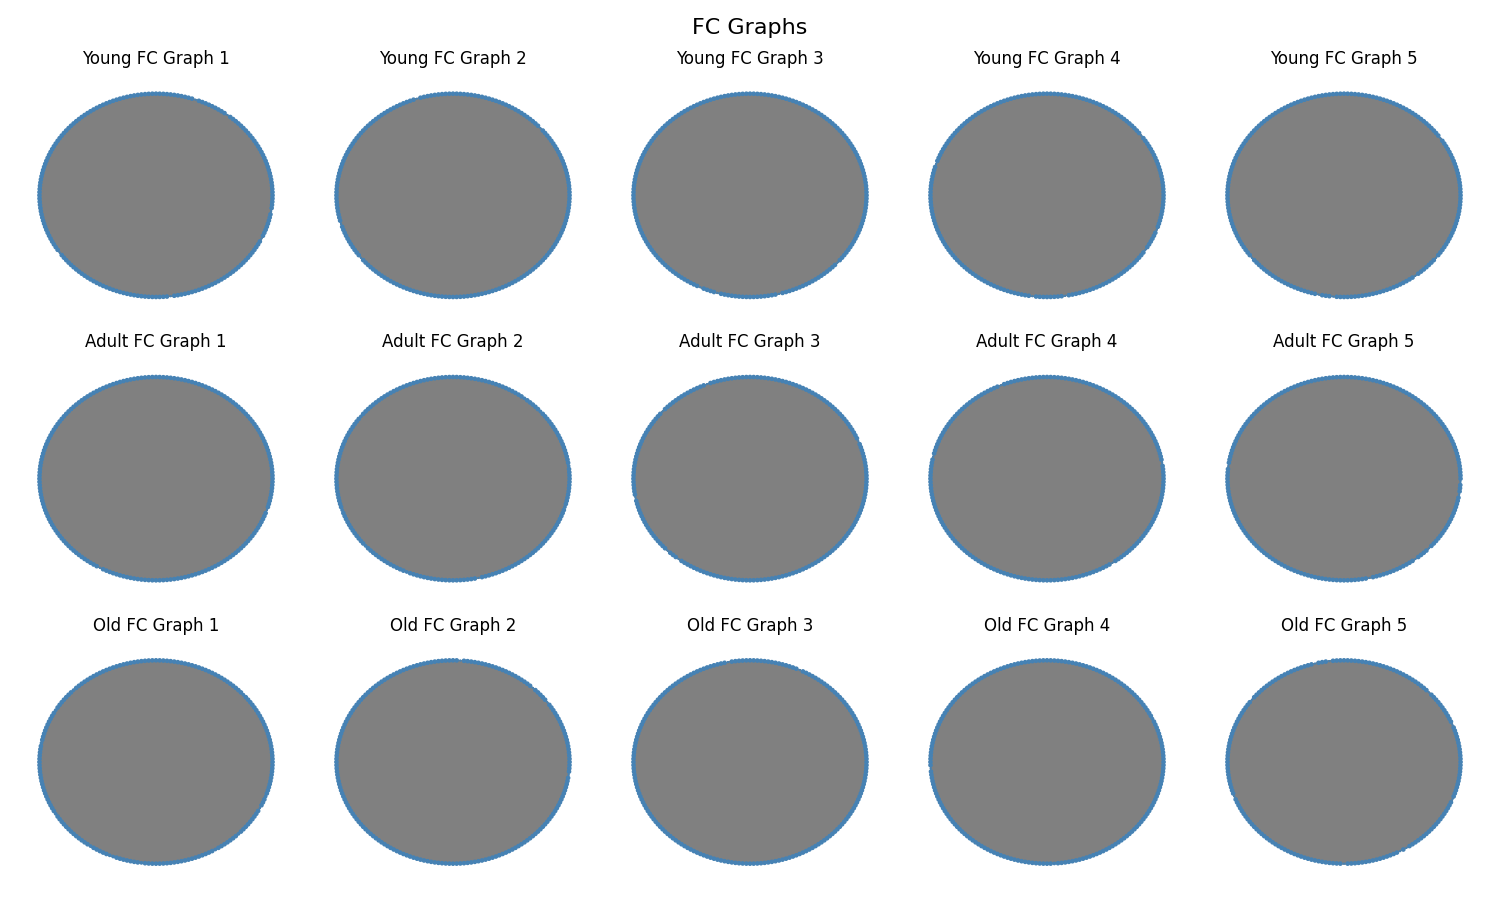
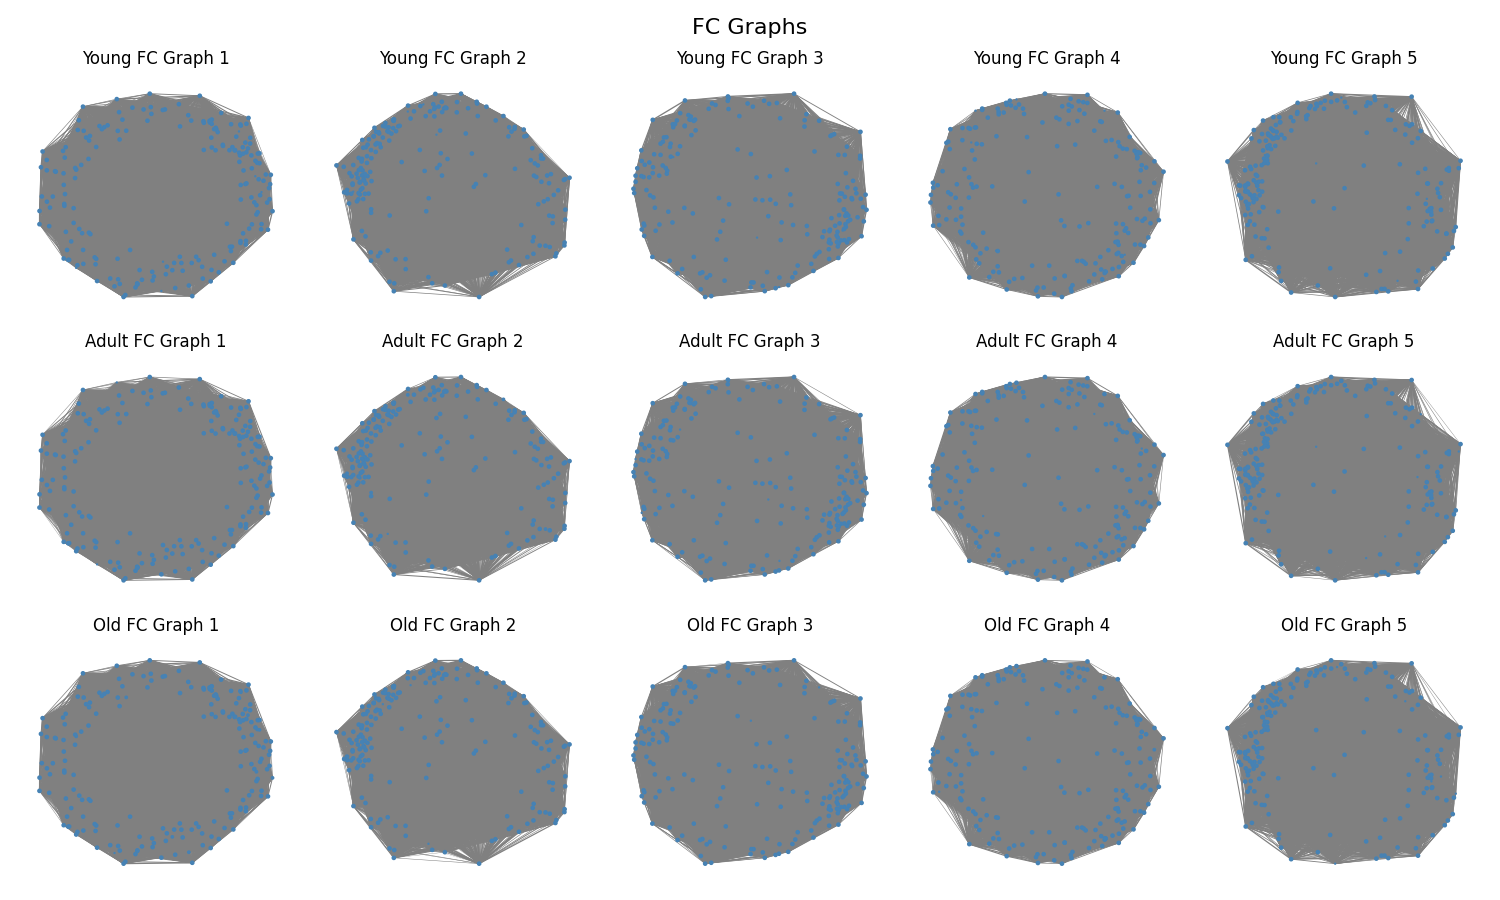
graph plot with fixed node positions
Former-commit-id: ac113189fe56dbc6cbd8a9e16e2a5218fe9518f5

diff --git a/Codice.py b/Codice.py
@@ -125,12 +125,13 @@ def plot_and_save_heatmap(young_matrix, adult_matrix, old_matrix, title_prefix, 
     plt.close(fig)
 
 
+"""
 # Visualize the original SC matrices as a heatmap
 plot_and_save_heatmap(sc_young_matrix, sc_adult_matrix, sc_old_matrix, 'SC', 'SC_matrices_heatmap.png')
 
 # Visualize the original FC matrices as a heatmap
 plot_and_save_heatmap(fc_young_matrix, fc_adult_matrix, fc_old_matrix, 'FC', 'FC_matrices_heatmap.png')
-
+"""
 
 
 # Plot the histogram 
@@ -185,13 +186,13 @@ def plot_and_save_histogram(young_matrix, adult_matrix, old_matrix, title_prefix
     
     plt.close(fig)
 
-
+"""
 # Plot the histogram of the original FC matrix values
 plot_and_save_histogram(fc_young_matrix, fc_adult_matrix, fc_old_matrix, 'FC', 'FC_matrices_histogram.png')
 
 # Plot the histogram of the original SC matrix values
 plot_and_save_histogram(sc_young_matrix, sc_adult_matrix, sc_old_matrix, 'SC', 'SC_matrices_histogram.png')
-
+"""
 
     
  
@@ -316,7 +317,6 @@ def preprocess_fc_matrix(matrix, threshold=0.5, method='zscore'):
     return rescaled_matrix
 
 
-
 # Initialize empty arrays to store the preprocessed FC matrices
 fc_young_matrix_preprocessed = np.empty_like(fc_young_matrix)
 fc_adult_matrix_preprocessed = np.empty_like(fc_adult_matrix)
@@ -329,56 +329,6 @@ for i in range(fc_young_matrix.shape[2]):
     fc_adult_matrix_preprocessed[:, :, i] = preprocess_fc_matrix(fc_adult_matrix[:, :, i], threshold= 0.5, method='zscore')
     fc_old_matrix_preprocessed[:, :, i] = preprocess_fc_matrix(fc_old_matrix[:, :, i], threshold= 0.5, method='zscore')
 
-
-# Plot the histogram of the FC matrix values
-
-
-# Extract the upper triangular part of the original FC matrix, excluding the diagonal
-upper_tri_fc_matrix = np.triu(fc_young_matrix[:, :, 0],k=1)
-# Flatten the upper triangular part
-flattened_fc_matrix = upper_tri_fc_matrix.flatten()
-
-# Calculate the mean and standard deviation
-"""
-mean_fc = np.mean(flattened_fc_matrix)
-std_fc = np.std(flattened_fc_matrix)
-
-print(f"Mean of the original FC matrix values: {mean_fc}")
-print(f"Standard deviation of the original FC matrix values: {std_fc}")
-"""
-
-# Plot the histogram of the original FC matrix values
-
-
-"""
-plt.subplot(1, 2, 1)
-plt.hist(flattened_fc_matrix, bins=100, edgecolor='k')
-plt.title('Histogram of Original FC Matrix Values')
-plt.xlabel('Value')
-plt.ylabel('Frequency')
-
-# Extract the upper triangular part of the preprocessed FC matrix, excluding the diagonal
-upper_tri_fc_matrix_preprocessed = np.triu(fc_young_matrix_preprocessed[:, :, 0], k=1)
-# Flatten the upper triangular part
-flattened_fc_matrix_preprocessed = upper_tri_fc_matrix_preprocessed.flatten()
-
-# Calculate the mean and standard deviation
-mean_fc_preprocessed = np.mean(flattened_fc_matrix_preprocessed)
-std_fc_preprocessed = np.std(flattened_fc_matrix_preprocessed)
-
-print(f"Mean of the preprocessed FC matrix values: {mean_fc_preprocessed}")
-print(f"Standard deviation of the preprocessed FC matrix values: {std_fc_preprocessed}")
-
-# Plot the histogram of the preprocessed FC matrix values
-plt.subplot(1, 2, 2)
-plt.hist(flattened_fc_matrix_preprocessed, bins=100, edgecolor='k')
-plt.title('Histogram of Preprocessed FC Matrix Values')
-plt.xlabel('Value')
-plt.ylabel('Frequency')
-
-plt.tight_layout()
-plt.show()
-"""
 
 
 # Normalization of the SC matrices 
@@ -421,7 +371,7 @@ for i in range(sc_young_matrix.shape[2]):
     sc_old_matrix_preprocessed[:, :, i] = preprocess_sc_matrix(sc_old_matrix[:, :, i], method='zscore')
 
 
-
+"""
 # Visualize the preprocessed FC matrices as a heatmap
 plot_and_save_heatmap(fc_young_matrix_preprocessed, fc_adult_matrix_preprocessed, fc_old_matrix_preprocessed, 'FC', 'FC_matrices_heatmap_preprocessed.png')
 
@@ -434,7 +384,7 @@ plot_and_save_histogram(fc_young_matrix_preprocessed, fc_adult_matrix_preprocess
 
 # Plot the histogram of the preprocessed SC matrix values
 plot_and_save_histogram(sc_young_matrix_preprocessed, sc_adult_matrix_preprocessed, sc_old_matrix_preprocessed, 'SC', 'SC_matrices_histogram_preprocessed.png')
-
+"""
 
 
 # Convert matrices to graphs
@@ -493,7 +443,7 @@ def plot_graph_on_axis(graph, ax, title, pos = None):
     
     # Draw the graph
     if pos is None:
-        pos = nx.spring_layout(graph)
+        pos = nx.spring_layout(graph, seed=42)
     nx.draw(graph, pos, ax=ax, node_size=node_sizes, with_labels=False, node_color='steelblue', edge_color='gray', width=edge_weights)
 
     return pos
@@ -514,7 +464,11 @@ def plot_and_save_graph(young_graphs, adult_graphs, old_graphs, title_prefix, fi
     fig.suptitle(f'{title_prefix} Graphs', fontsize=16)
 
     for i in range(5):
-        pos = plot_graph_on_axis(young_graphs[i], axs[0, i], f"Young {title_prefix} Graph {i+1}", pos)
+        if positions:
+            pos = positions[i]
+            plot_graph_on_axis(young_graphs[i], axs[0, i], f"Young {title_prefix} Graph {i+1}", pos)
+        else:
+            pos = plot_graph_on_axis(young_graphs[i], axs[0, i], f"Young {title_prefix} Graph {i+1}")
         plot_graph_on_axis(adult_graphs[i], axs[1, i], f"Adult {title_prefix} Graph {i+1}", pos)
         plot_graph_on_axis(old_graphs[i], axs[2, i], f"Old {title_prefix} Graph {i+1}", pos)
 
@@ -526,19 +480,21 @@ def plot_and_save_graph(young_graphs, adult_graphs, old_graphs, title_prefix, fi
     
     plt.close(fig)
 
+    return positions
 
+"""
 # Visualize the original SC graphs
-plot_and_save_graph(sc_young_graph, sc_adult_graph, sc_old_graph, 'SC', 'SC_graphs.png')
+positions_sc = plot_and_save_graph(sc_young_graph, sc_adult_graph, sc_old_graph, 'SC', 'SC_graphs.png')
 
 # Visualize the preprocessed SC graphs
-plot_and_save_graph(sc_young_graph_preprocessed, sc_adult_graph_preprocessed, sc_old_graph_preprocessed, 'SC', 'SC_graphs_preprocessed.png')
+plot_and_save_graph(sc_young_graph_preprocessed, sc_adult_graph_preprocessed, sc_old_graph_preprocessed, 'SC', 'SC_graphs_preprocessed.png', positions_sc)
 
 # Visualize the original FC graphs
-plot_and_save_graph(fc_young_graph, fc_adult_graph, fc_old_graph, 'FC', 'FC_graphs.png')
+positions_fc = plot_and_save_graph(fc_young_graph, fc_adult_graph, fc_old_graph, 'FC', 'FC_graphs.png', positions_sc)
 
 # Visualize the preprocessed FC graphs
-plot_and_save_graph(fc_young_graph_preprocessed, fc_adult_graph_preprocessed, fc_old_graph_preprocessed, 'FC', 'FC_graphs_preprocessed.png')
-
+plot_and_save_graph(fc_young_graph_preprocessed, fc_adult_graph_preprocessed, fc_old_graph_preprocessed, 'FC', 'FC_graphs_preprocessed.png', positions_fc)
+"""
 
 
 
@@ -579,13 +535,22 @@ sc_old_graph_preprocessed_louvain = [louvain_preprocessing(graph) for graph in s
 
 # Visualize Louvain preprocessed graphs
 
+
+
+
+# TODO: apply plot_and_save_graph to the Louvain preprocessed graphs using node positions but removing the positions of deleted nodes
+
+
+
+
 # Visualize the Louvain preprocessed SC graphs
+"""
 plot_and_save_graph(sc_young_graph_preprocessed_louvain, sc_adult_graph_preprocessed_louvain, sc_old_graph_preprocessed_louvain, 'SC', 'SC_graphs_preprocessed_louvain.png')
 
 
 # Visualize the Louvain preprocessed FC graphs
 plot_and_save_graph(fc_young_graph_preprocessed_louvain, fc_adult_graph_preprocessed_louvain, fc_old_graph_preprocessed_louvain, 'FC', 'FC_graphs_preprocessed_louvain.png')
-
+"""
 
 # Community detection using Louvain method
 
